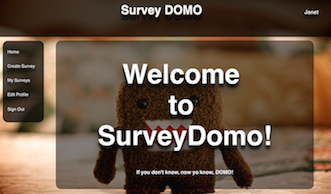
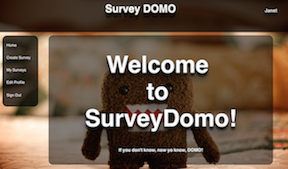
Resizes screenshots, changes positioning of img after a hover

diff --git a/css/style.css b/css/style.css
@@ -131,24 +131,24 @@ a#dbcconnect:hover:after {
     content: url(../img/screenshots/dbcconnect.png);
     display: block;
     position: absolute;
-    left: 153px; /*123*/
-    top: -12px;  /*56*/
+    left: 250px; /*123*/
+    /*top: 0px;  /*56*/*/
 }
 
 a#surveydomo:hover:after {
     content: url(../img/screenshots/surveydomo.png);
     display: block;
     position: absolute;
-    left: 153px; /*123*/
-    top: -12px;  /*56*/
+    left: 250px; /*123*/
+    /*top: -12px;  /*56*/*/
 }
 
 a#sweettalk:hover:after {
     content: url(../img/screenshots/sweettalk.png);
     display: block;
     position: absolute;
-    left: 133px; /*123*/
-    top: -12px;  /*56*/
+    left: 250px; /*123*/
+    /*top: -12px;  /*56*/*/
 }
 
 #picture {
